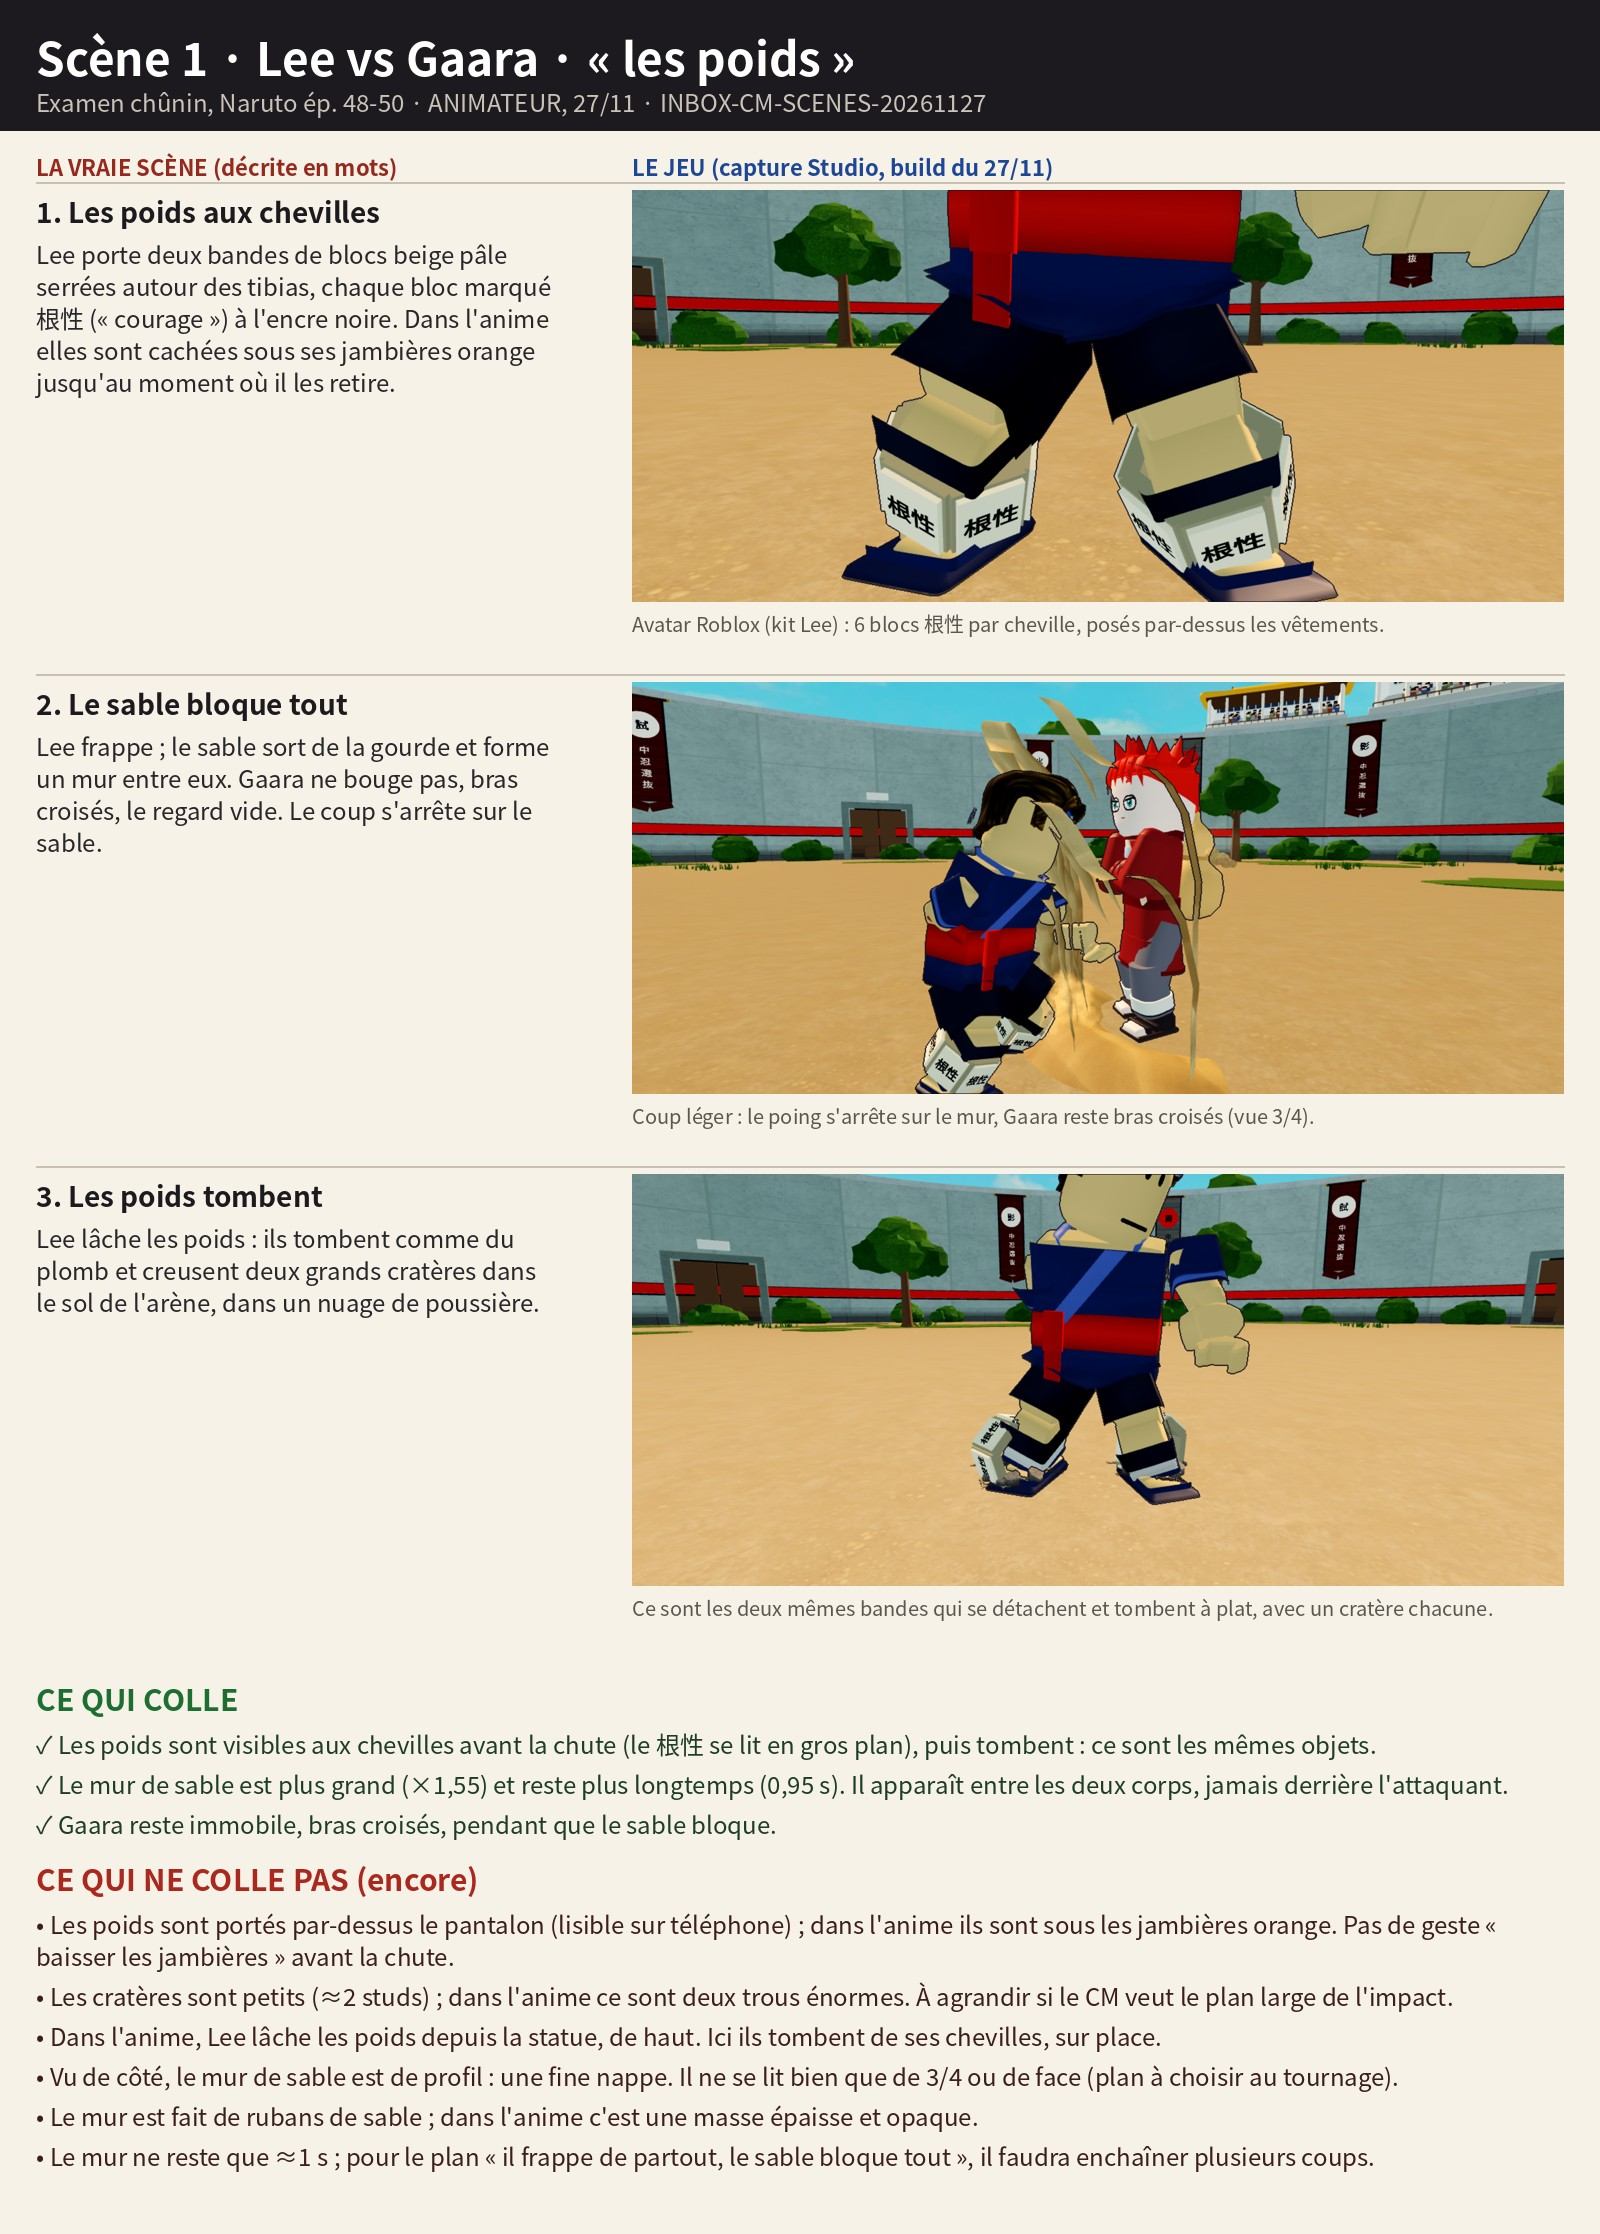
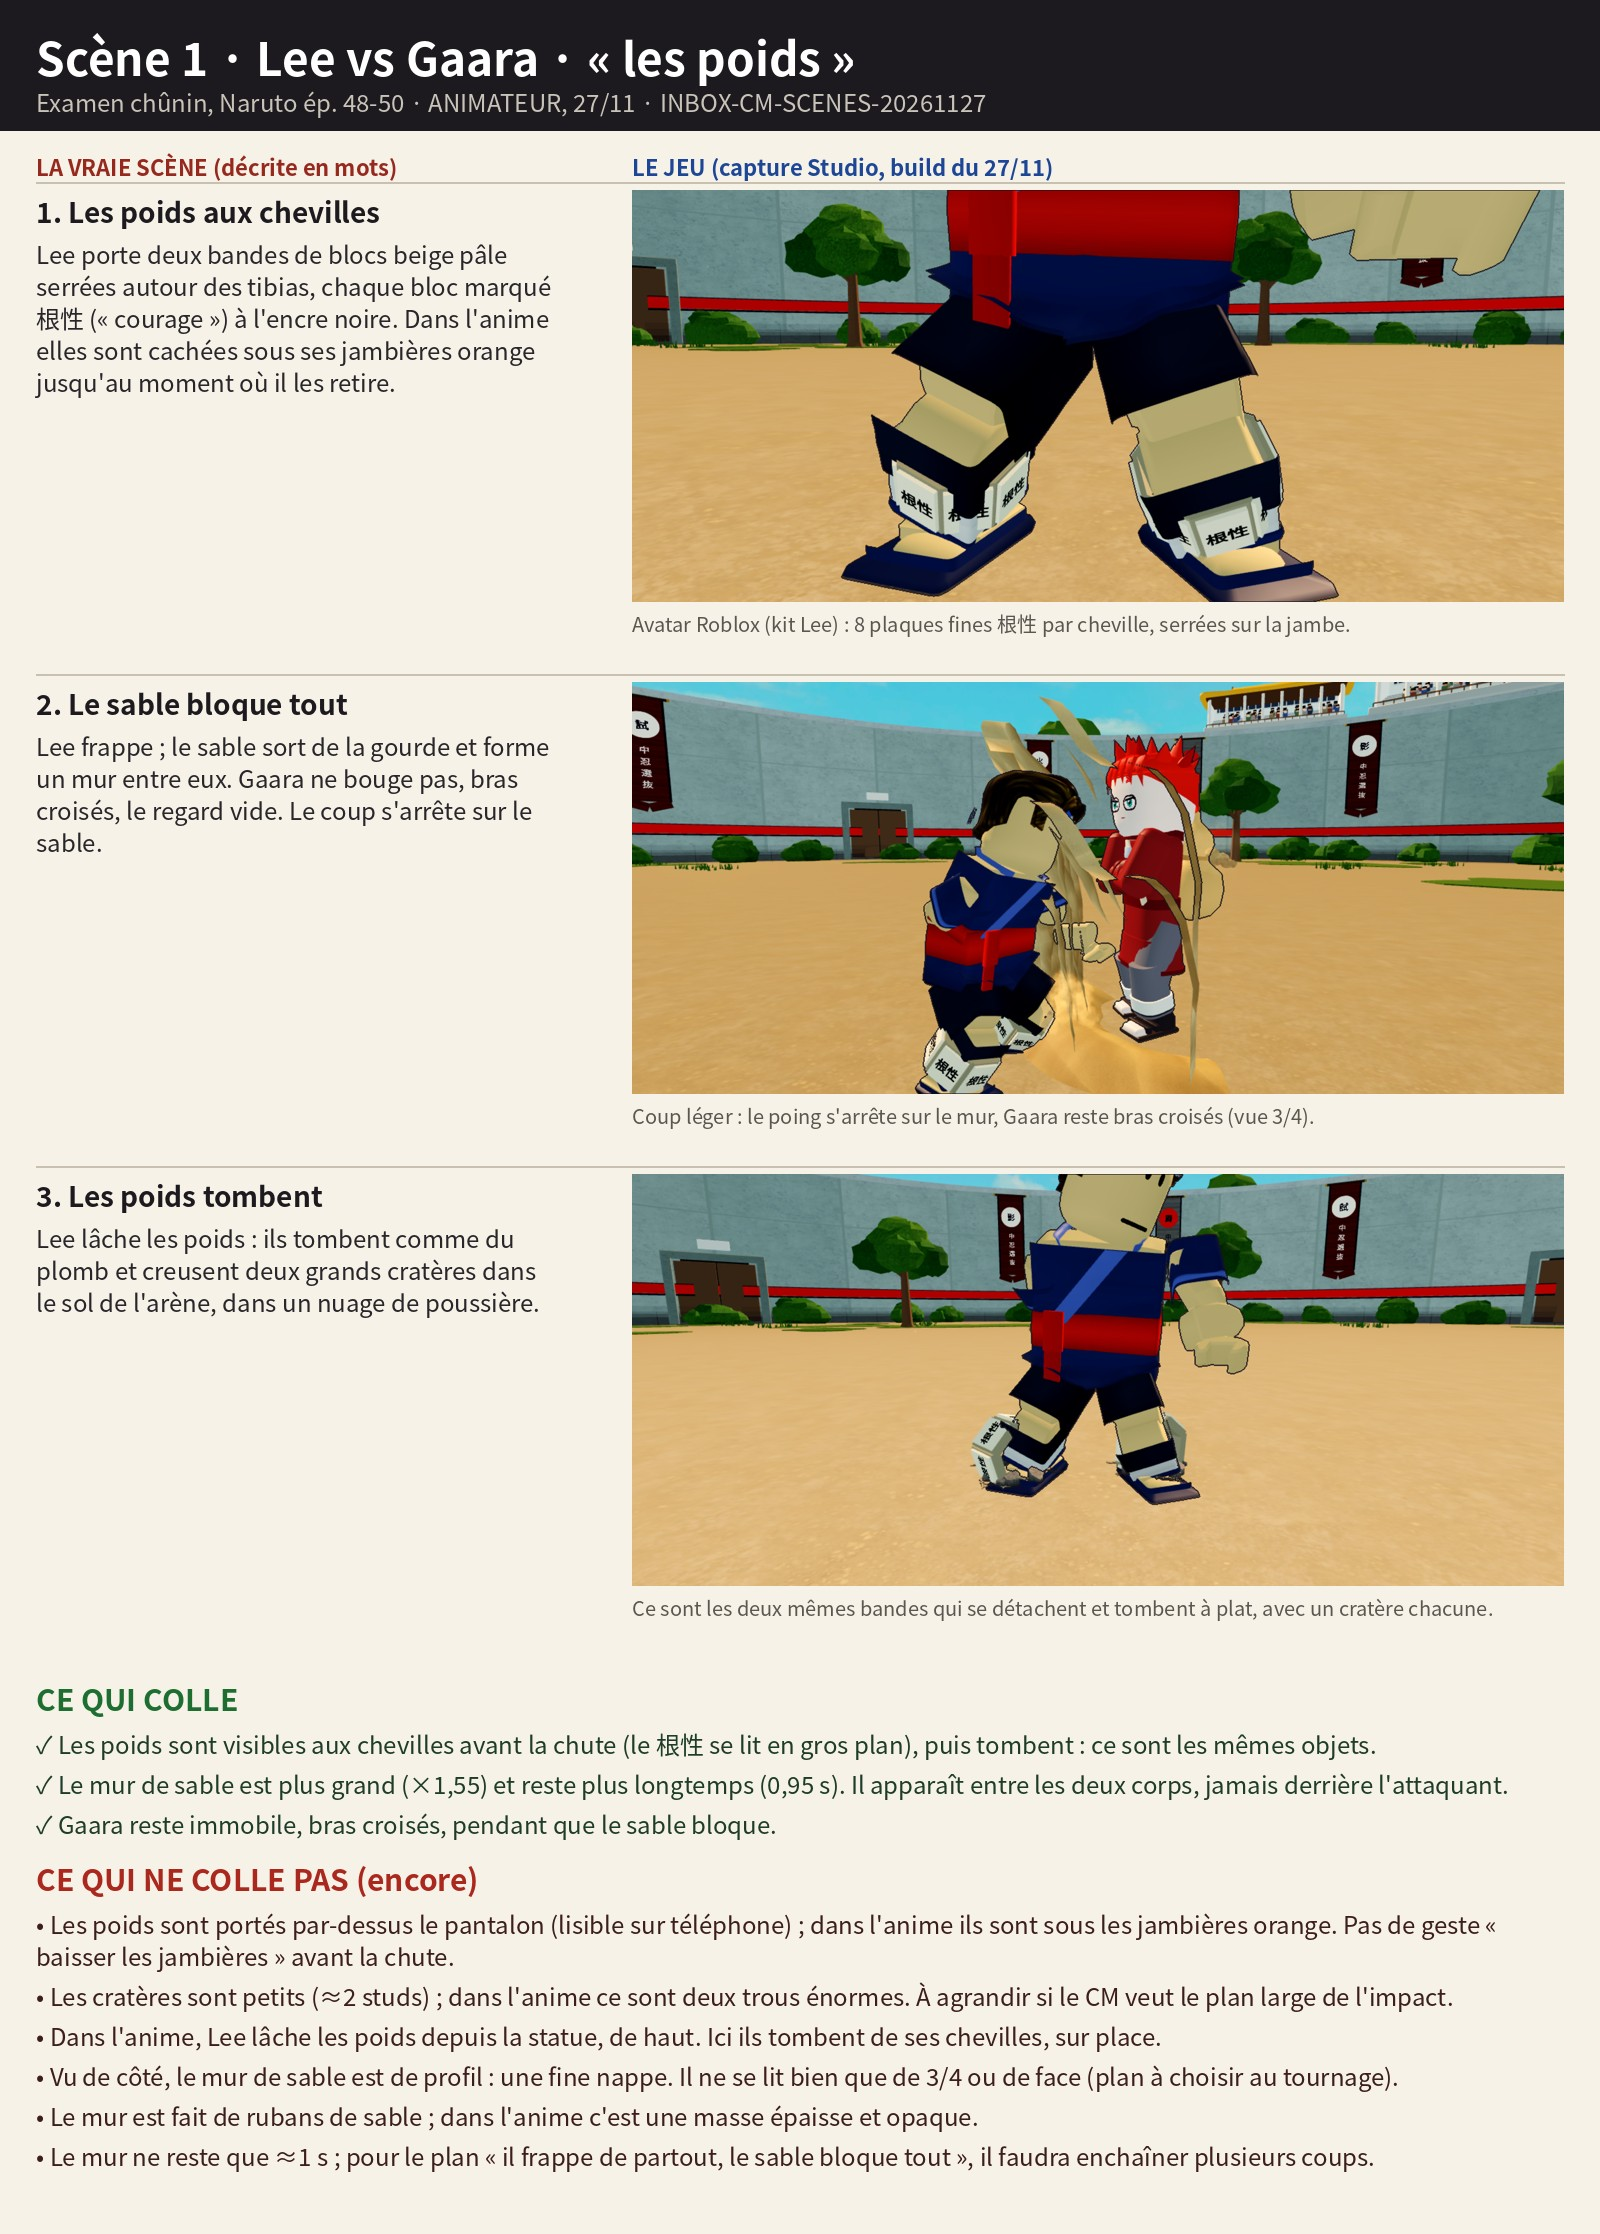
ANIMATEUR : poids de Lee en plaques fines serrées sur la jambe (François : « ils sont fins de base ») ; demandes du Kaiten transmises au DEV
Claude-Session: https://claude.ai/code/session_01P4BfD6CvseMptrVDDfkyEg

diff --git a/games/ninja-duel/docs/active/SINCE_LAST_CLAUDE.md b/games/ninja-duel/docs/active/SINCE_LAST_CLAUDE.md
@@ -4,13 +4,13 @@
 
 Planches : `docs/reports/scenes-2026-11-27/planche_scene1_lee_gaara.jpg` et `planche_scene2_naruto_neji.jpg`. Chaque planche met côte à côte la vraie scène, décrite en mots (sans image de l'anime), et la capture Studio, puis liste ce qui colle et ce qui ne colle pas encore. Les captures viennent du build debug du 27/11, sur ma place `LAB/bt/NinjaDuel-SCENES`, avec un avatar Roblox et les vrais coups du jeu.
 
-- **Les poids** (`Client/LeeFX`), d'après la référence de François (11 h 29, « rappel poids de Lee ») : une bande de blocs beige pâle marqués 根性 autour de chaque cheville. Tout combattant qui a `RemoveWeights` les porte : Lee ou l'avatar. Ils se placent par-dessus les vêtements, à la taille du vêtement le plus large à cette hauteur. Quand il les lâche, ce sont **ces mêmes bandes** qui tombent et font un cratère ; elles reviennent à la fin du buff. Le modèle MeshKit `LegWeight` n'est plus utilisé par LeeFX : il disparaissait dans un pantalon sombre.
+- **Les poids** (`Client/LeeFX`), d'après la référence de François (11 h 29, « rappel poids de Lee ») : une bande de plaques fines, beige pâle, marquées 根性 autour de chaque cheville (8 plaques de 0,07 stud d'épaisseur, serrées sur la jambe : François, 11 h 54, « ils sont fins de base »). Tout combattant qui a `RemoveWeights` les porte : Lee ou l'avatar. Elles se posent par-dessus les vêtements, juste à la taille du vêtement le plus large à cette hauteur. Quand il les lâche, ce sont **ces mêmes bandes** qui tombent et font un cratère ; elles reviennent à la fin du buff. Le modèle MeshKit `LegWeight` n'est plus utilisé par LeeFX : il disparaissait dans un pantalon sombre.
 - **Le mur de sable** (`Client/SandFX`) : il est 1,55 fois plus grand et tient 0,95 s. Il se place entre les deux corps, au point d'impact, et jamais derrière l'attaquant. Gaara reste au neutre, bras croisés, comme avant.
 - **Le Kaiten** (`Client/Effects`) : le dôme fait 14 studs de diamètre, la portée du serveur (`Techniques.ROTATION_REACH`=7). S'y ajoutent un anneau au sol et des traînées de vent. Les « bandes » étaient des disques pleins (un cylindre plein) et faisaient un brouillard blanc ; ce sont maintenant des anneaux texturés. La lumière est plus faible.
 - **Le Byakugan** :
   - `Server/Looks` (apparence) : les veines partent du coin des yeux vers les tempes, à 37–47° au lieu de 44–52°, et sont un peu plus grandes.
   - `Client/Effects` : elles grossissent et passent au violet foncé, sans Neon (au soleil, le Neon violet devenait blanc). Elles restent pendant tout le buff `ByakuganSight` (5 s).
-- **DEV, deux questions :**
+- **DEV (François, 11 h 50 : « donne au DEV ») — deux demandes :**
   1. Pendant le Kaiten, les clones disparaissent en fumée dès le contact (`Bodies.area`) : on ne les voit pas être éjectés. La scène a besoin d'un vol court avant la fumée. Peux-tu le faire, ou me dire où le brancher côté client ?
   2. Le dôme dessiné prend toujours le rayon 7. Si une compétence l'élargit (`rotationReach`), le dessin est faux. Peux-tu mettre `rotationReach` dans le snapshot ?
 - **Pas fait :**
